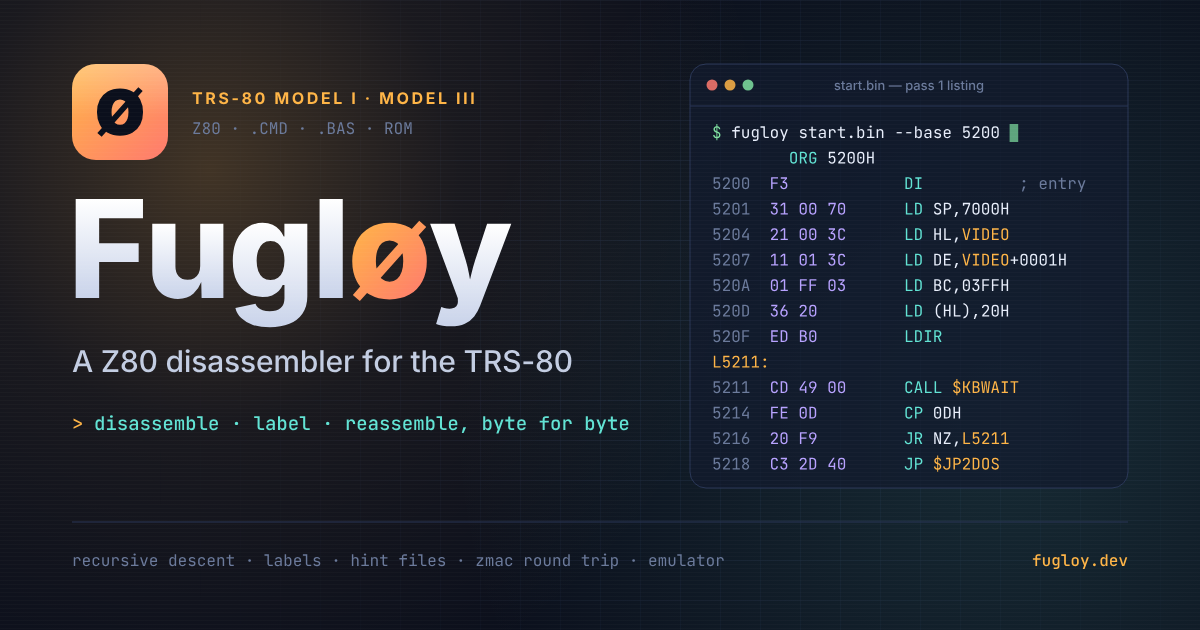
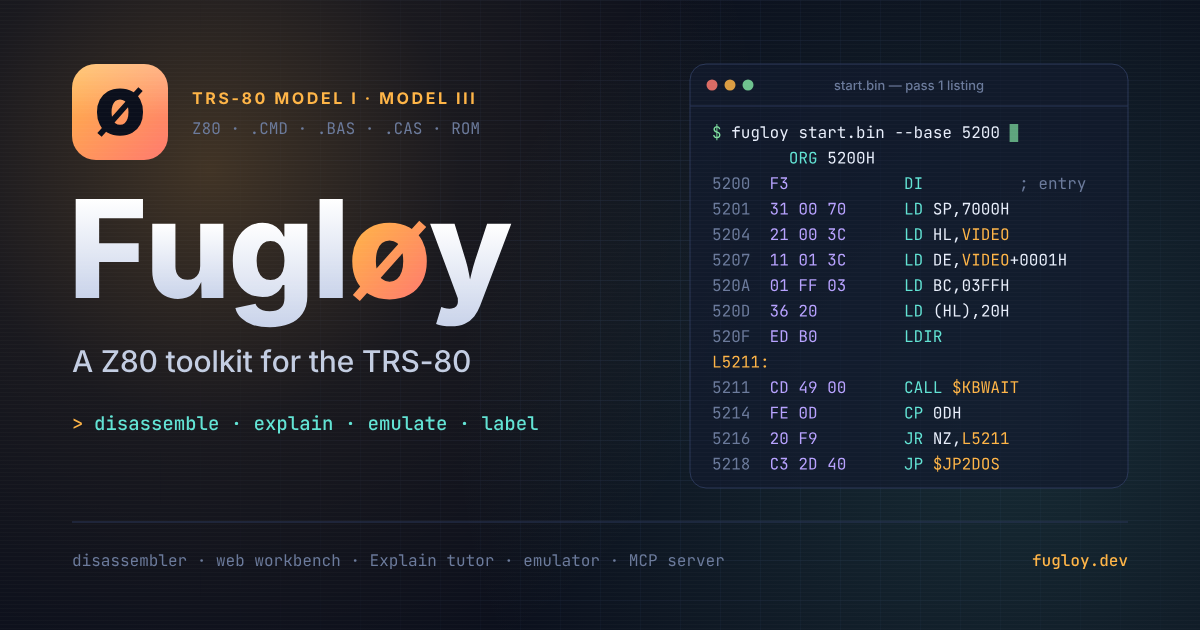
p4: show Fugløy as a toolkit on the social card

diff --git a/apps/web/scripts/outline-card-words.ts b/apps/web/scripts/outline-card-words.ts
@@ -1,0 +1,92 @@
+// Rewrites the words on the social card (docs/images/og-image.svg): the formats line under the
+// TRS-80 line, the tagline, the green line of verbs, the footer's list of parts, and the SVG's
+// <title> and <desc>. The card's text is outlined glyphs, so it renders the same everywhere with
+// no font installed; this script makes the outlines from Inter (the tagline) and JetBrains Mono
+// (the rest), in the sizes, colours and places the card already uses. Each line is the group
+// <g id="card-…"> in the SVG; the wordmark, the o-slash tile, the TRS-80 line, the ">" before the
+// verbs, fugloy.dev and the listing (outline-card-text.ts) are left alone. To change the wording,
+// edit WORDS below, run this, then `pnpm --filter @fugloy/web render-brand`. See docs/images/README.md.
+import { readFileSync, writeFileSync } from 'node:fs';
+import { dirname, join } from 'node:path';
+import { fileURLToPath } from 'node:url';
+import opentype from 'opentype.js';
+
+const here = dirname(fileURLToPath(import.meta.url));
+const root = join(here, '..', '..', '..');
+const svgPath = join(root, 'docs', 'images', 'og-image.svg');
+const fonts = join(here, '..', 'node_modules', '@fontsource');
+
+const TITLE = 'Fugløy — a Z80 toolkit for the TRS-80';
+const DESC =
+  'Dark card with the Fugløy wordmark, the tagline "A Z80 toolkit for the TRS-80", the line "disassemble · explain · emulate · label", ' +
+  'the parts (disassembler, web workbench, Explain tutor, emulator, MCP server), and a pass 1 listing of a short Model III routine with its ROM, video, and DOS addresses named.';
+
+interface Line {
+  id: string;
+  text: string;
+  font: 'inter-500' | 'mono-400' | 'mono-500';
+  size: number;
+  x: number;
+  y: number;
+  /** Extra space after each glyph, in px (the tagline is set slightly tight). */
+  tracking?: number;
+  /** The line must end left of this x, or it runs into the panel or fugloy.dev. */
+  maxX: number;
+}
+
+const WORDS: Line[] = [
+  { id: 'card-formats', text: 'Z80 · .CMD · .BAS · .CAS · ROM', font: 'mono-400', size: 16, x: 192, y: 134, maxX: 660 },
+  { id: 'card-tagline', text: 'A Z80 toolkit for the TRS-80', font: 'inter-500', size: 30, x: 72, y: 372, tracking: -0.2, maxX: 660 },
+  { id: 'card-verbs', text: 'disassemble · explain · emulate · label', font: 'mono-500', size: 19, x: 94, y: 430, maxX: 660 },
+  { id: 'card-parts', text: 'disassembler · web workbench · Explain tutor · emulator · MCP server', font: 'mono-400', size: 16, x: 72, y: 566, maxX: 1000 },
+];
+
+const FILES = {
+  'inter-500': join(fonts, 'inter', 'files', 'inter-latin-500-normal.woff'),
+  'mono-400': join(fonts, 'jetbrains-mono', 'files', 'jetbrains-mono-latin-400-normal.woff'),
+  'mono-500': join(fonts, 'jetbrains-mono', 'files', 'jetbrains-mono-latin-500-normal.woff'),
+};
+const loaded = new Map<string, opentype.Font>();
+function font(name: keyof typeof FILES): opentype.Font {
+  if (!loaded.has(name)) {
+    const buf = readFileSync(FILES[name]);
+    loaded.set(name, opentype.parse(buf.buffer.slice(buf.byteOffset, buf.byteOffset + buf.byteLength)));
+  }
+  return loaded.get(name)!;
+}
+
+const escape = (s: string): string => s.replace(/&/g, '&amp;').replace(/</g, '&lt;').replace(/>/g, '&gt;').replace(/"/g, '&quot;');
+
+let svg = readFileSync(svgPath, 'utf8');
+const defs = new Map<string, string>();
+for (const line of WORDS) {
+  const f = font(line.font);
+  const scale = line.size / f.unitsPerEm;
+  const glyphs = [...line.text].map((ch) => f.charToGlyph(ch)); // no shaping: Inter's GSUB trips opentype.js, and the card wants no ligatures
+  let x = line.x;
+  let uses = '';
+  glyphs.forEach((g, i) => {
+    const id = `w-${line.font}-${line.size}-${g.index}`;
+    if (g.path.commands.length > 0) {
+      if (!defs.has(id)) defs.set(id, g.getPath(0, 0, line.size).toPathData(2));
+      uses += `<use href="#${id}" x="${x.toFixed(2)}" y="${line.y}"/>`;
+    }
+    const kern = i + 1 < glyphs.length ? f.getKerningValue(g, glyphs[i + 1]!) : 0;
+    x += (g.advanceWidth! + kern) * scale + (line.tracking ?? 0);
+  });
+  if (x > line.maxX) throw new Error(`outline-card-words: "${line.text}" ends at x=${x.toFixed(1)}, past ${line.maxX}`);
+  const group = new RegExp(`<g id="${line.id}" fill="([^"]*)">[\\s\\S]*?</g>`);
+  const m = group.exec(svg);
+  if (m === null) throw new Error(`outline-card-words: og-image.svg has no <g id="${line.id}">`);
+  svg = svg.replace(group, `<g id="${line.id}" fill="${m[1]}">${uses}</g>`);
+  console.log(`outline-card-words: ${line.id} ends at x=${x.toFixed(1)}`);
+}
+
+svg = svg.replace(/<title id="t">[^<]*<\/title>/, `<title id="t">${escape(TITLE)}</title>`);
+svg = svg.replace(/<desc id="d">[^<]*<\/desc>/, `<desc id="d">${escape(DESC)}</desc>`);
+// Replace this script's glyph defs, then drop any glyph def nothing uses any more.
+svg = svg.replace(/<path id="w-[^"]*" d="[^"]*"\/>\n/g, '');
+svg = svg.replace('</defs>', `${[...defs].map(([id, d]) => `<path id="${id}" d="${d}"/>`).join('\n')}\n</defs>`);
+svg = svg.replace(/<path id="([^"]+)" d="[^"]*"\/>\n/g, (all, id: string) => (svg.includes(`#${id}"`) ? all : ''));
+writeFileSync(svgPath, svg);
+console.log(`outline-card-words: ${defs.size} glyphs`);

diff --git a/apps/web/app/composables/usePageSeo.ts b/apps/web/app/composables/usePageSeo.ts
@@ -2,7 +2,7 @@
 // the image is the social card (docs/images/og-image.png, copied to public/ by prepare-assets).
 export const SITE_ORIGIN = 'https://app.fugloy.dev';
 export const HOME_TITLE = 'Fugløy — TRS-80 disassembler workbench';
-export const CARD_ALT = 'Fugløy: a Z80 disassembler for the TRS-80. Disassemble, label, reassemble, byte for byte, beside a listing whose ROM, video, and DOS addresses are named.';
+export const CARD_ALT = 'Fugløy: a Z80 toolkit for the TRS-80. Disassemble, explain, emulate, label: a disassembler, a web workbench with the Explain tutor, an emulator, and an MCP server, beside a listing whose ROM, video, and DOS addresses are named.';
 
 export interface PageSeo {
   title: string;

diff --git a/docs/images/README.md b/docs/images/README.md
@@ -17,6 +17,22 @@ pnpm --filter @fugloy/web render-brand        # re-renders og-image.png and the 
 
 Then look at `og-image.png`: a listing row wider than the panel throws no error, it just runs off the edge.
 The script needs the dev dependencies `opentype.js` and `@fontsource/jetbrains-mono` (the card's font).
-The tagline, wordmark and footer are not regenerated; edit the SVG by hand for those.
 
-The card's text is outlined from JetBrains Mono (copyright The JetBrains Mono Project Authors), used under the SIL Open Font License 1.1: https://github.com/JetBrains/JetBrainsMono
+## Changing the card's words
+
+The formats line under the TRS-80 line, the tagline, the green line of verbs, the footer's list of parts, and
+the SVG's `<title>` and `<desc>` come from `WORDS`, `TITLE` and `DESC` at the top of
+`apps/web/scripts/outline-card-words.ts`. Edit them, then:
+
+```
+pnpm --filter @fugloy/web outline-card-words  # outlines each line into its <g id="card-..."> group in og-image.svg
+pnpm --filter @fugloy/web render-brand        # re-renders og-image.png and the favicons
+```
+
+The script stops if a line would run into the listing panel or `fugloy.dev`; still look at the PNG. It needs
+`@fontsource/inter` (the tagline) and `@fontsource/jetbrains-mono`. The wordmark, the o-slash tile, the
+TRS-80 line and `fugloy.dev` are not regenerated; edit the SVG by hand for those, and leave the tile alone
+unless the favicons should change too. When the words change, update the card's alt text to match: the
+README's `<img alt>` and `CARD_ALT` in `apps/web/app/composables/usePageSeo.ts`.
+
+The card's text is outlined from Inter (copyright The Inter Project Authors), used under the SIL Open Font License 1.1: https://github.com/rsms/inter, and JetBrains Mono (copyright The JetBrains Mono Project Authors), used under the SIL Open Font License 1.1: https://github.com/JetBrains/JetBrainsMono

diff --git a/README.md b/README.md
@@ -1,5 +1,5 @@
 <p align="center">
-  <a href="docs/images/og-image.png"><img src="docs/images/og-image.svg" alt="Fugløy: a Z80 disassembler for the TRS-80. Disassemble, label, reassemble, byte for byte. Beside it, Fugløy's own pass 1 listing of a short Model III routine, with its video and DOS addresses named." width="100%"></a>
+  <a href="docs/images/og-image.png"><img src="docs/images/og-image.svg" alt="Fugløy: a Z80 toolkit for the TRS-80. Disassemble, explain, emulate, label: a disassembler, a web workbench with the Explain tutor, an emulator, and an MCP server. Beside it, Fugløy's own pass 1 listing of a short Model III routine, with its ROM, video, and DOS addresses named." width="100%"></a>
 </p>
 
 # Fugløy
